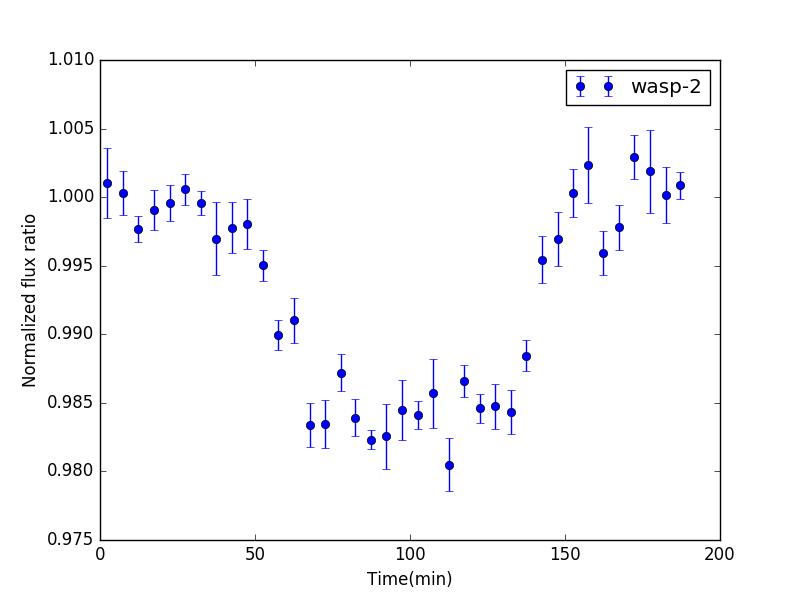
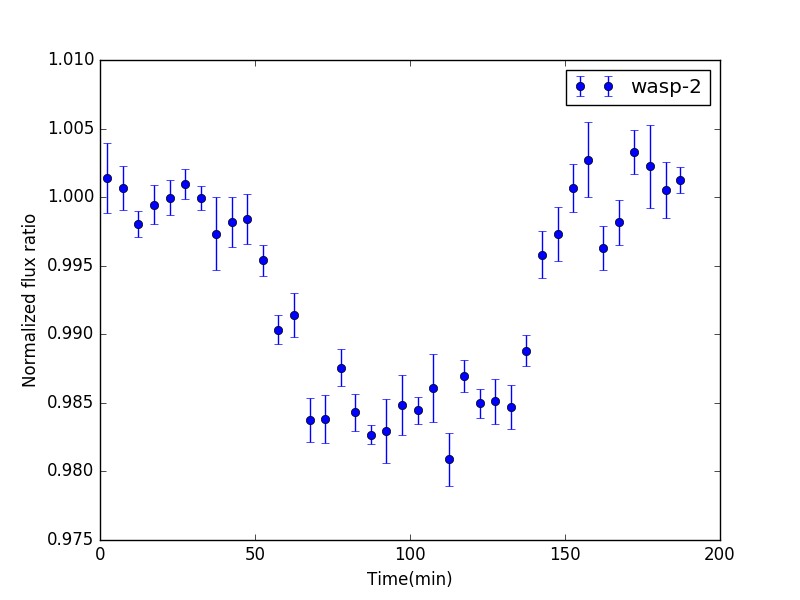
normalize ratio with original data instead of binned data, output average and error for two stable regions

diff --git a/result/readresult.py b/result/readresult.py
@@ -28,9 +28,9 @@ def normalizeFlux(data,aper_num,omit_range):
             numer += data[i][flux]/(data[i][fluxerr]**2)
             denom += 1./(data[i][fluxerr]**2)
             count += 1
-    print data['NUMBER'][i]/60000.,' min'
+    #print data['NUMBER'][i]/60000.,' min'
     flux_ave = numer/denom
-    print "count = ",count
+    #print "count = ",count
     data[flux] = data[flux]/flux_ave
     data[fluxerr] = data[fluxerr]/flux_ave
     return data
@@ -43,13 +43,13 @@ data_guiding=list()
 for i in range(10):
     #ax = fig.add_subplot(3,4,i+1)
     data_guiding.append(normalizeFlux(ascii.read('guiding'+str(i+1)+'.cat'),2,[]))
-    print 'i = ',i
+    #print 'i = ',i
     #print data_guiding[i]['FLUX_APER_2']
     dummy = data_guiding[i]['FLUX_APER_2']
     for j in range(len(dummy)):
         if (dummy[j] > 1.03) or (dummy[j] < 0.97):
             data_guiding[i]['FLUXERR_APER_2'][j] = 1.e40
-            print data_guiding[i]['FLUX_APER_2'][j]
+            #print data_guiding[i]['FLUX_APER_2'][j]
 
     #ax.errorbar(data_guiding[i]['NUMBER'],data_guiding[i]['FLUX_APER_2'],yerr=data_guiding[i]['FLUXERR_APER_2'],fmt='o')
     #ax.set_ylim([0.95,1.05])
@@ -82,7 +82,49 @@ data_guiding_flux_master=data_guiding_flux_master/data_guiding_error_master
 
 transit_ratio=data_target['FLUX_APER_2']/data_guiding_flux_master
 
-### Bin it up - 5 minutes bins
+################ Let's find average of the two plateau################
+# 1st one: <45 mins and >155 mins
+# 2nd one: 75 mins < t < 125 mins
+r1 = 0.
+r2 = 0.
+numpt1 = 0
+numpt2 = 0
+for i in range(len(transit_ratio)):
+    time = data_target['NUMBER'][i]/60000.
+    if (time < 45.) or (time > 155.):
+        r1 += transit_ratio[i]
+        numpt1 += 1
+    elif (time > 75.) and (time < 125.):
+        r2 += transit_ratio[i]
+        numpt2 += 1
+r1 = r1/numpt1
+r2 = r2/numpt2
+print 'numpts: ',numpt1,numpt2
+
+#rerun loop to find errors
+rerr1 = 0.
+rerr2 = 0.
+numpt1 = 0
+numpt2 = 0
+for i in range(len(transit_ratio)):
+    time = data_target['NUMBER'][i]/60000.
+    if (time < 45.) or (time > 155.):
+        rerr1 += (transit_ratio[i]-r1)**2
+        numpt1 += 1
+    elif (time > 75.) and (time < 125.):
+        rerr2 += (transit_ratio[i]-r2)**2
+        numpt2 += 1
+rerr1 = np.sqrt(rerr1/numpt1/(numpt1-1.))
+rerr2 = np.sqrt(rerr2/numpt2/(numpt2-1.))
+
+print 'numpts: ',numpt1,numpt2
+print 'r1, rerr1: ',r1,rerr1
+print 'r2, rerr2: ',r2,rerr2
+print 'Flux ratio: ',r2/r1                                
+# Normalize?
+transit_ratio = transit_ratio/r1
+
+################## Bin it up - 5 minutes bins #####################
 binWidth = 5. #mins
 num_bin = int(np.ceil(max(data_target['NUMBER'])/60000./binWidth))
 bindata = np.zeros([num_bin,2])
@@ -92,17 +134,16 @@ j = 0
 for i in range(num_bin):
     num_point = 0
     while int(data_target['NUMBER'][j]/60000./binWidth) < (i+1):
-        print i,j,data_target['NUMBER'][j]/60000.
+        #print i,j,data_target['NUMBER'][j]/60000.
         bindata[i,1] += transit_ratio[j]
         bindata[i,0] += data_target['NUMBER'][j]/60000.
         num_point += 1
         j+=1
         if j == len(transit_ratio):
             break
-    print num_point
+    #print num_point
     bindata[i,1] = bindata[i,1]/num_point
     bindata[i,0] = bindata[i,0]/num_point
-
 
 # rerun loop to get errors
 j = 0
@@ -114,21 +155,23 @@ for i in range(num_bin):
         j+=1
         if j == len(transit_ratio):
             break
-    binerror[i] = np.sqrt(binerror[i]/num_point/(num_point-1))
-
-
+    binerror[i] = np.sqrt(binerror[i]/num_point/(num_point-1.))
+#####################################################################
+'''
 # Let's normalize one last time
 bindata_ave = 0.
 num_point = 0
 for i in range(len(bindata)):
     if (i<7) or (i>29):
-        print i
+        #print i
         bindata_ave += bindata[i,1]
         num_point += 1
 bindata_ave = bindata_ave/float(num_point)
 bindata[:,1] = bindata[:,1]/bindata_ave
+print bindata_ave
+'''
 
-#plt.plot(data_target['NUMBER'],transit_ratio,'o',label='wasp-2')
+#plt.plot(data_target['NUMBER']/60000.,transit_ratio,'o',label='wasp-2')
 #plt.plot(bindata[:,0],bindata[:,1],'o',label='wasp-2')
 plt.errorbar(bindata[:,0],bindata[:,1],yerr=binerror,fmt='o',label='wasp-2')
 #plt.plot(data_target['NUMBER'],data_target['FLUX_APER_2'],label='wasp-2')
